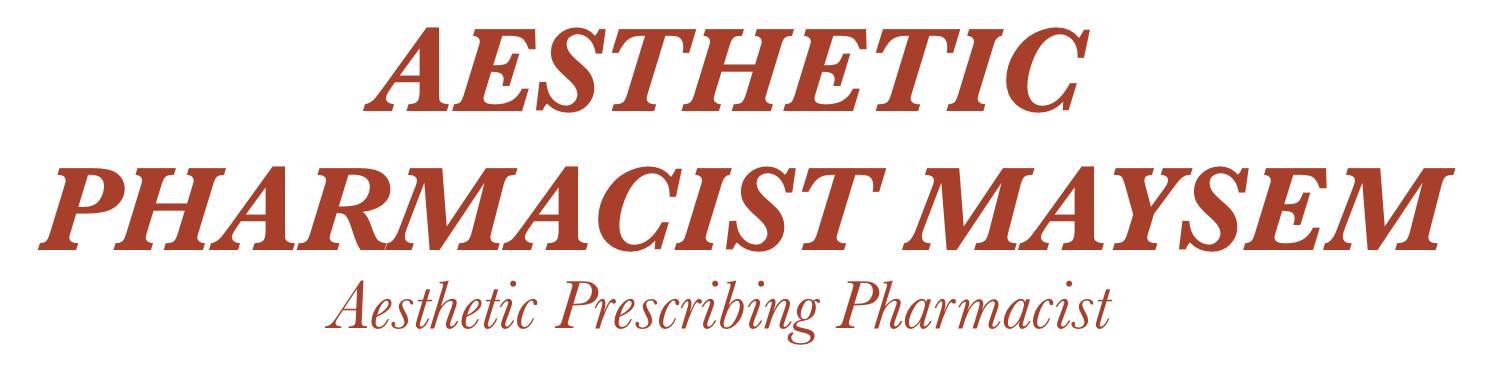
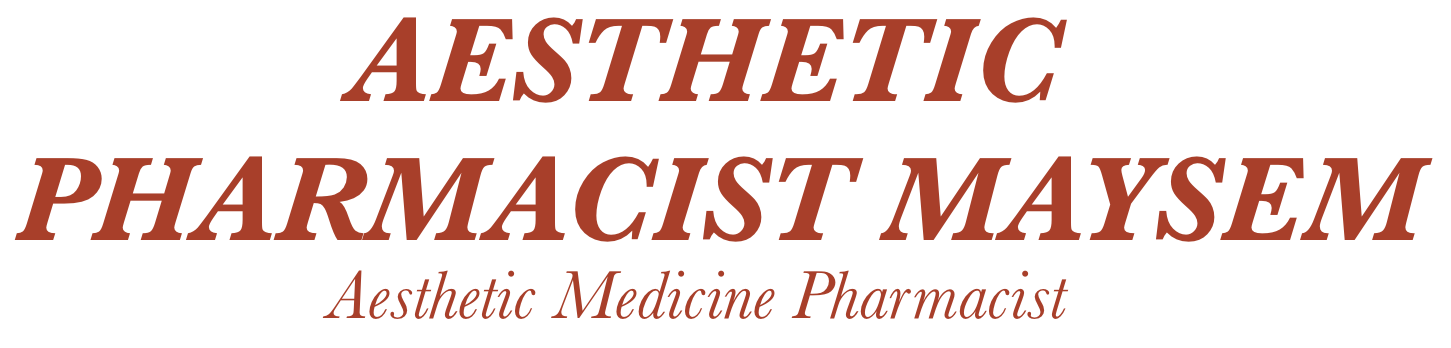
Update font color to better match the beige background - use warmer brown tone

Changed region(s): [[0.0, 0.431, 0.9924, 0.6897], [0.2171, 0.0287, 0.7443, 0.3161], [0.2171, 0.7471, 0.7443, 0.9195]]

diff --git a/styles/main.css b/styles/main.css
@@ -6,15 +6,15 @@
 }
 
 :root {
-    --primary-color: #B47663;
+    --primary-color: #8B6F47;
     --secondary-color: #F5EADA;
-    --accent-color: #B47663;
-    --text-color: #B47663;
-    --text-light: #B47663;
+    --accent-color: #8B6F47;
+    --text-color: #8B6F47;
+    --text-light: #8B6F47;
     --white: #F5EADA;
-    --border-color: #e8e8e8;
-    --button-bg: #B47663;
-    --button-hover: #9d5f4d;
+    --border-color: #d4c5a8;
+    --button-bg: #8B6F47;
+    --button-hover: #6d5637;
     --font-primary: -apple-system, BlinkMacSystemFont, 'Segoe UI', 'Helvetica Neue', Arial, sans-serif;
     --font-serif: 'Playfair Display', Georgia, serif;
 }
